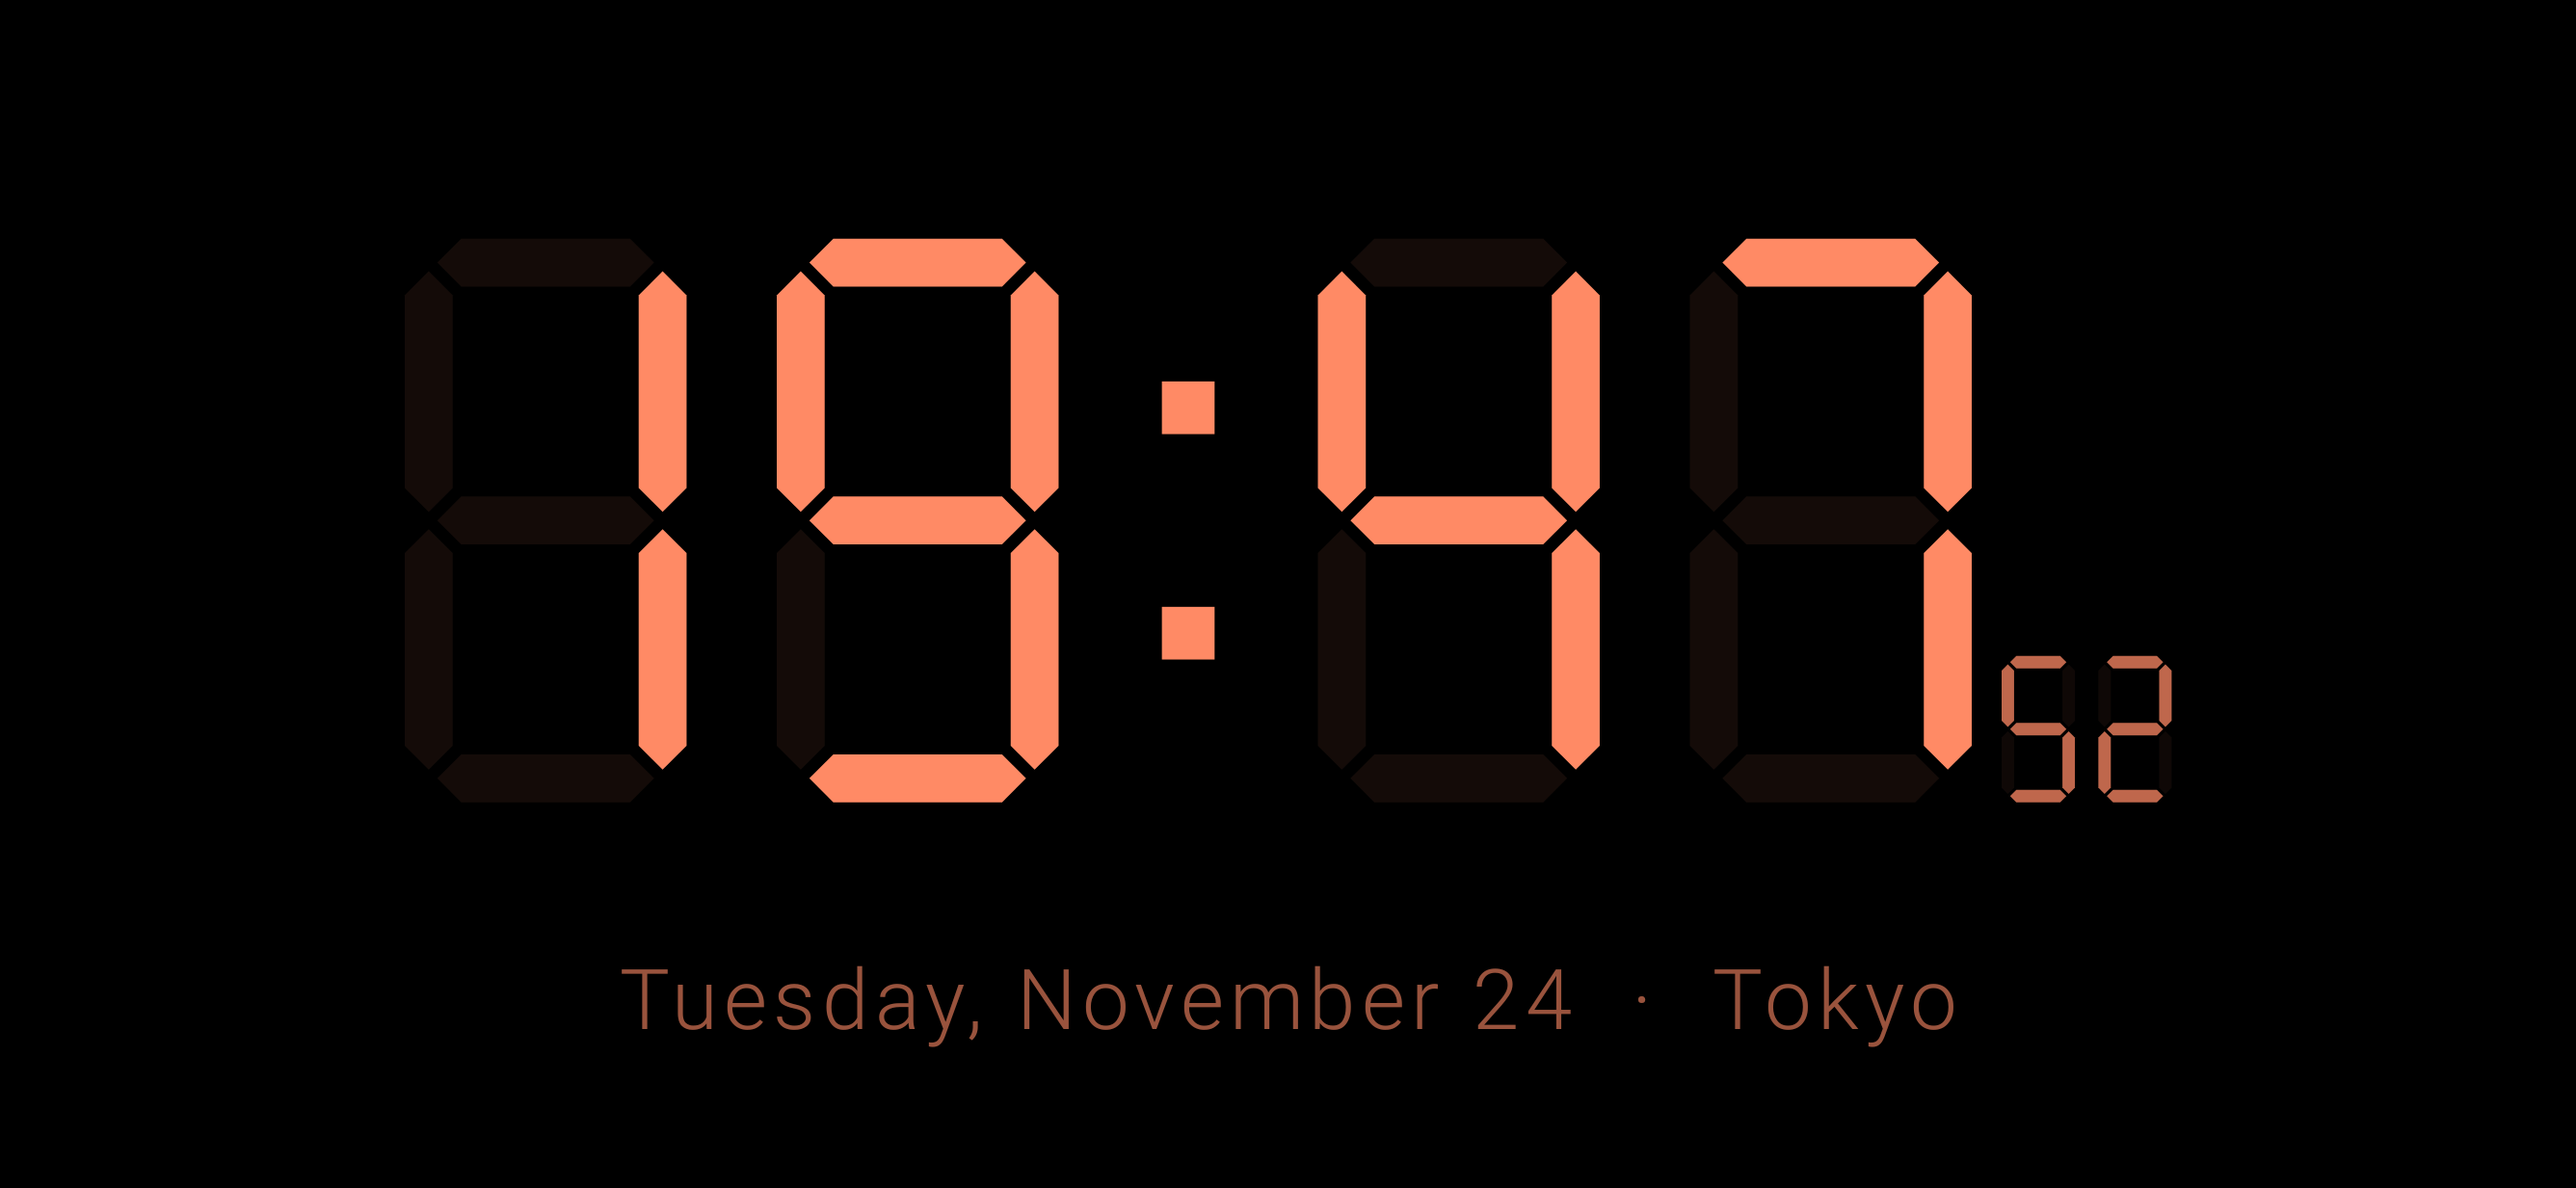
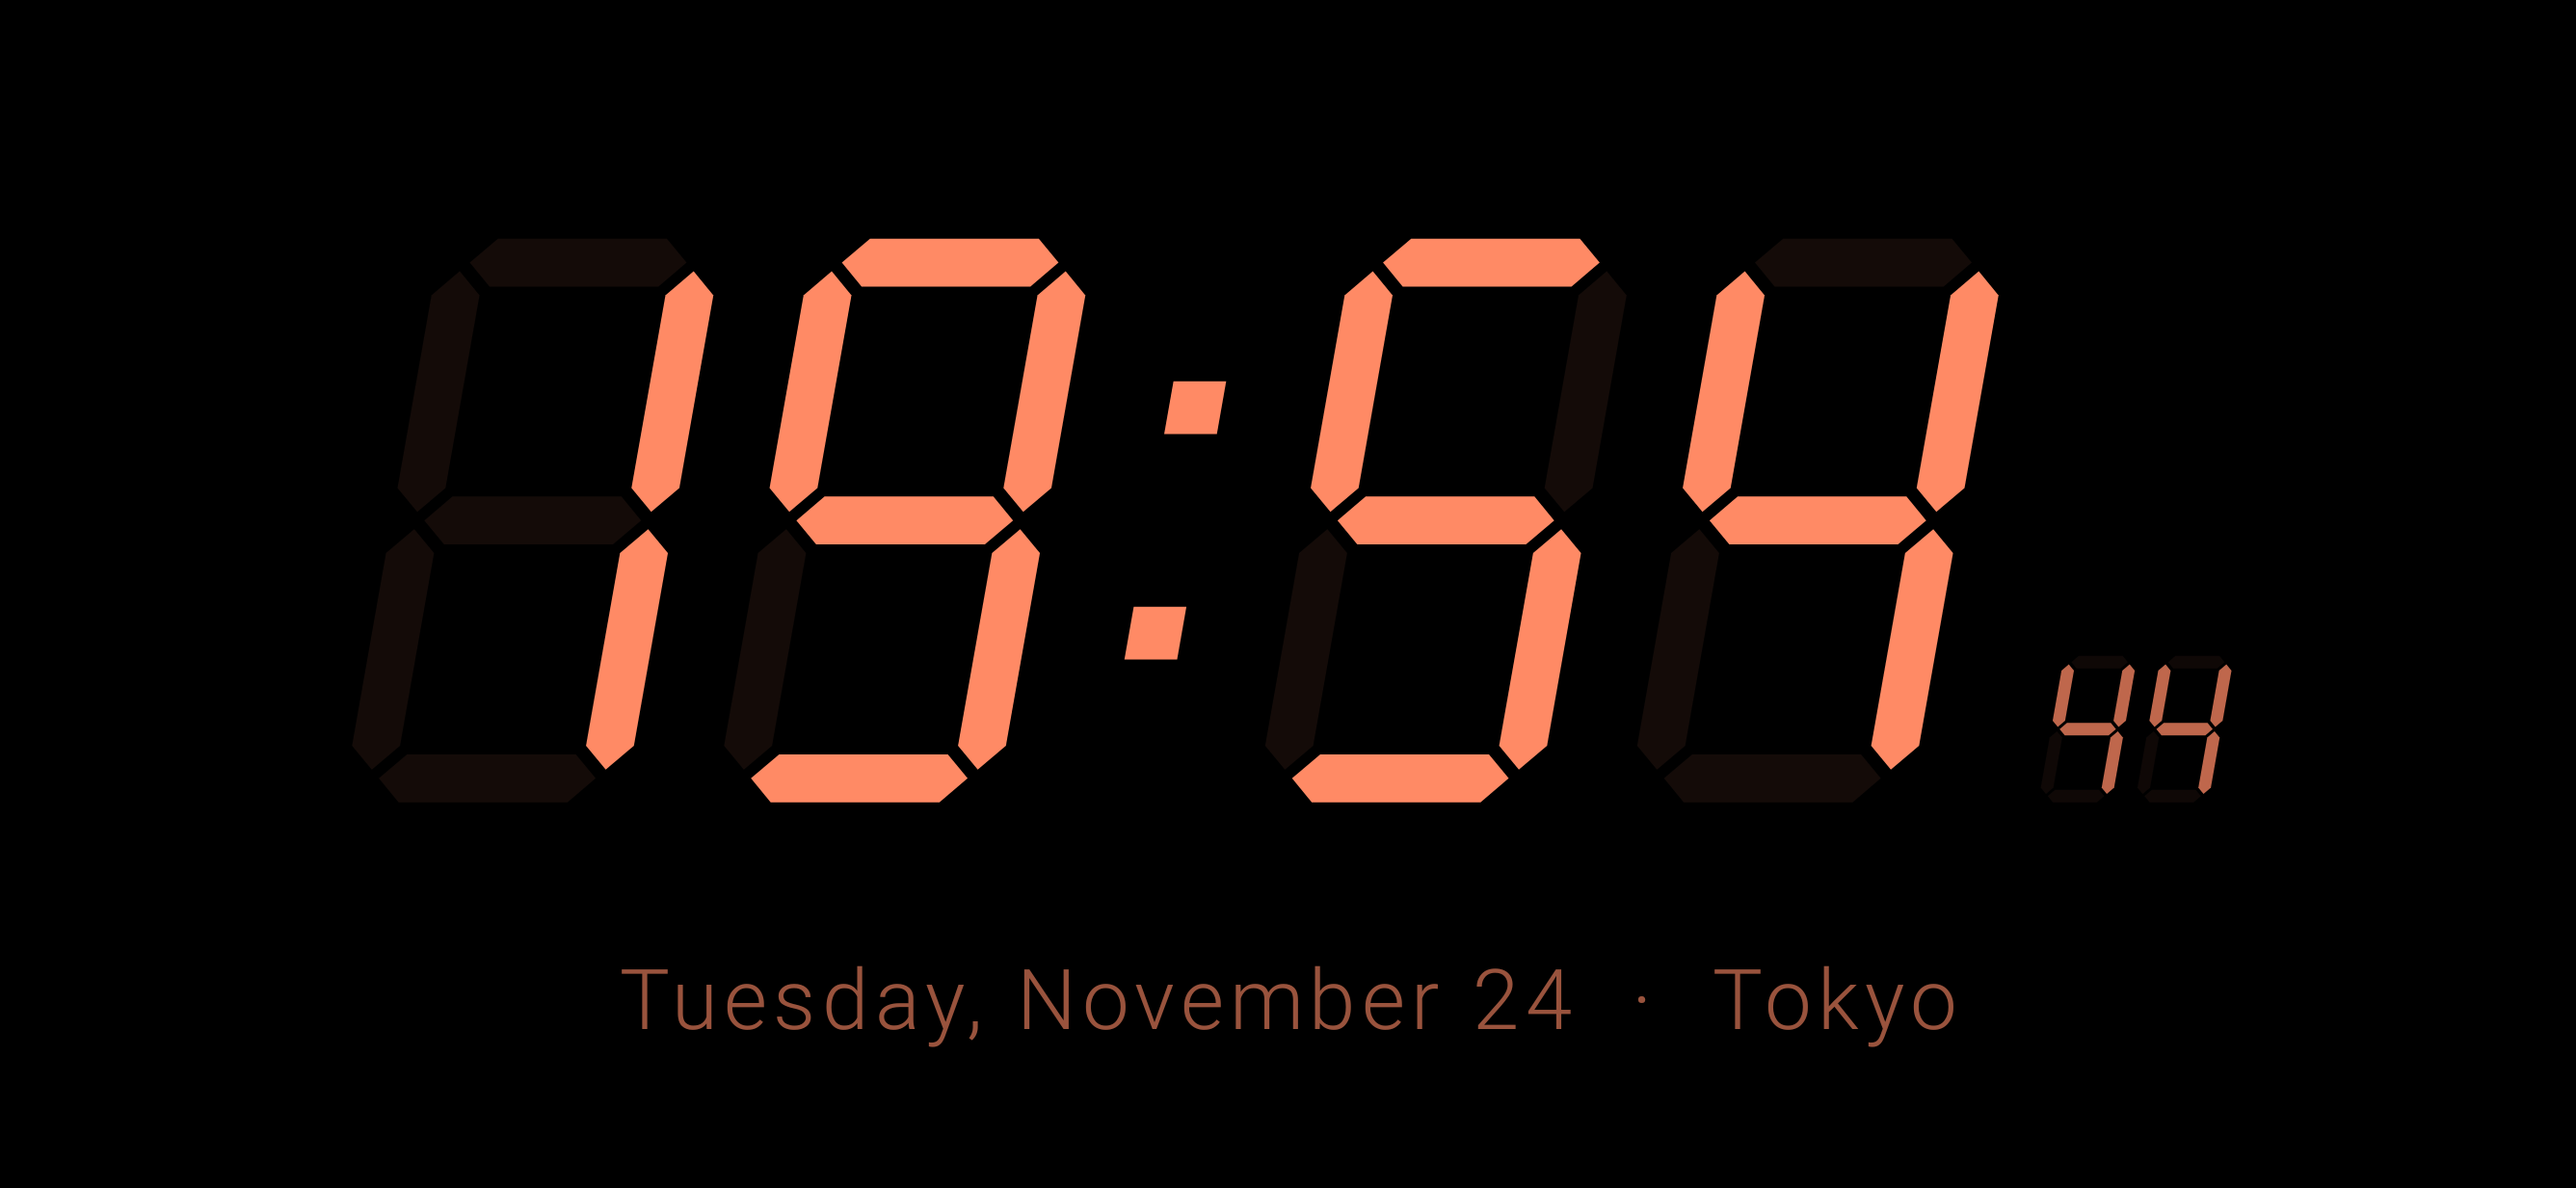
Use italic 7-segment digits; update screenshots
The 7-segment style now leans 10 degrees, the classic digital clock
look. The Modern style stays upright.

Claude-Session: https://claude.ai/code/session_014QL1Q679195jW4U26fPV79

diff --git a/README.md b/README.md
@@ -25,7 +25,7 @@ On the release page, tap the `.apk` file under **Assets**, open it on your phone
 
 ## Features
 - Full-screen (immersive) display; the digits scale to fill the screen.
-- Two digit styles: modern thin font, or classic 7-segment (with optional faint unlit segments).
+- Two digit styles: modern thin font, or classic italic 7-segment (with optional faint unlit segments).
 - Portrait shows hours over minutes; landscape shows `HH:mm` on one line.
 - 12/24-hour format, optional seconds, date and time zone name.
 - Any time zone, independent of the phone's system zone.
